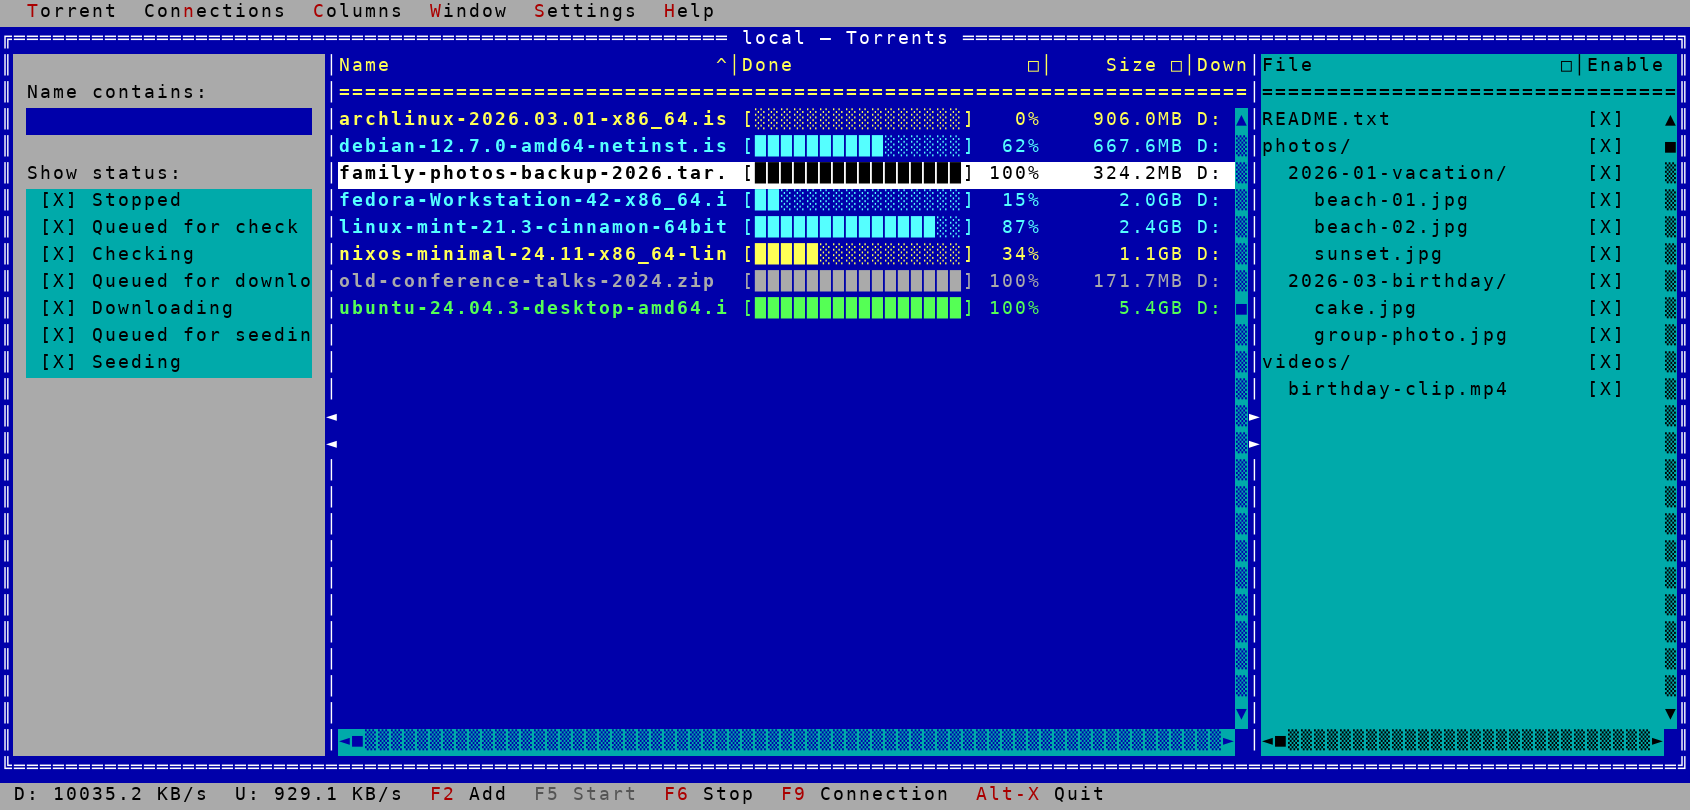
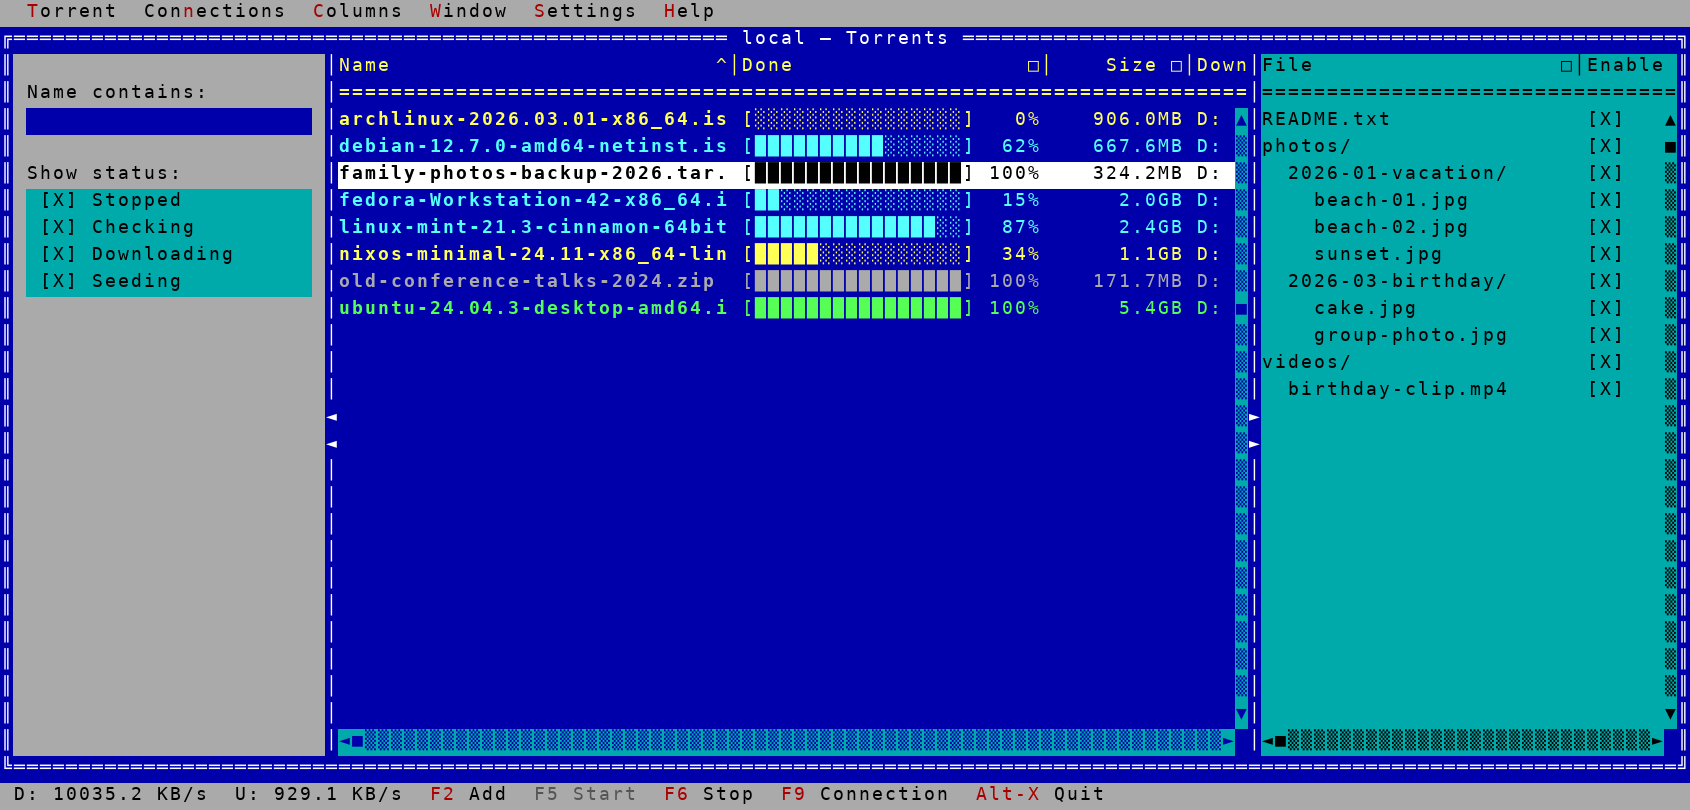
Add files via upload

Changed region(s): [[0.0, 0.2778, 0.1846, 0.4938]]

diff --git a/src/ui/Strings.cpp b/src/ui/Strings.cpp
@@ -539,12 +539,12 @@ const char* tr(Str id) {
             return pick("Queued for check", "In attesa di verifica", "En attente de vérification",
                         "Wartet auf Prüfung", "En espera de verificación", "Na fila para verificação", "В очереди на проверку", "Na fila para verificação");
         case Str::TorrentStatusChecking:
-            return pick("Checking", "Verifica in corso", "Vérification en cours", "Wird geprüft", "Verificando", "Verificando", "Проверка", "A verificar");
+            return pick("Checking", "Verifica", "Vérification en cours", "Wird geprüft", "Verificando", "Verificando", "Проверка", "A verificar");
         case Str::TorrentStatusDownloadWait:
             return pick("Queued for download", "In attesa di download", "En attente de téléchargement",
                         "Wartet auf Download", "En espera de descarga", "Na fila para download", "В очереди на скачивание", "Na fila para transferência");
         case Str::TorrentStatusDownloading:
-            return pick("Downloading", "Download in corso", "Téléchargement en cours", "Wird heruntergeladen", "Descargando", "Baixando", "Скачивание", "A transferir");
+            return pick("Downloading", "Download", "Téléchargement en cours", "Wird heruntergeladen", "Descargando", "Baixando", "Скачивание", "A transferir");
         case Str::TorrentStatusSeedWait:
             return pick("Queued for seeding", "In attesa di seeding", "En attente de partage",
                         "Wartet auf Seeding", "En espera de compartir", "Na fila para semear", "В очереди на раздачу", "Na fila para semear");

diff --git a/src/Version.h b/src/Version.h
@@ -1,4 +1,4 @@
 #pragma once
 
 // Bumped by hand when asked to — not tied to any build/commit counter.
-constexpr const char* kAppVersion = "1.7.1";
+constexpr const char* kAppVersion = "1.7.2";

diff --git a/README.md b/README.md
@@ -4,7 +4,7 @@
 [![AI Assisted](https://img.shields.io/badge/AI-Claude%20Code-AAAAAA.svg?style=for-the-badge)](https://claude.ai/code)
 ![GitHub License](https://img.shields.io/github/license/zanac/tv-transmission?style=for-the-badge)
 
-**Version 1.7.1** — stable release.
+**Version 1.7.2** — stable release.
 
 ![TV Transmission — main window with the Status and Files side panels open](docs/screenshot.png)
 
@@ -847,6 +847,14 @@ actions above:
 ## Fixed bugs
 
 Kept here for context, in case similar patterns come up again.
+
+**v1.7.2**: Status filter's own Italian labels shortened — "Verifica
+in corso" → "Verifica", "Download in corso" → "Download" (asked for
+directly: drop "in corso" so the labels read shorter, matching the
+panel's own four-checkbox compacting from the previous version).
+Italian only; the other seven languages' own strings for these two
+untouched. "Fermo" (Stopped) and "Seeding" already had no "in corso"
+to drop.
 
 **Status panel's own status filter compacted from seven checkboxes to
 four** — asked for directly, with a specific mapping: "Checking" now
